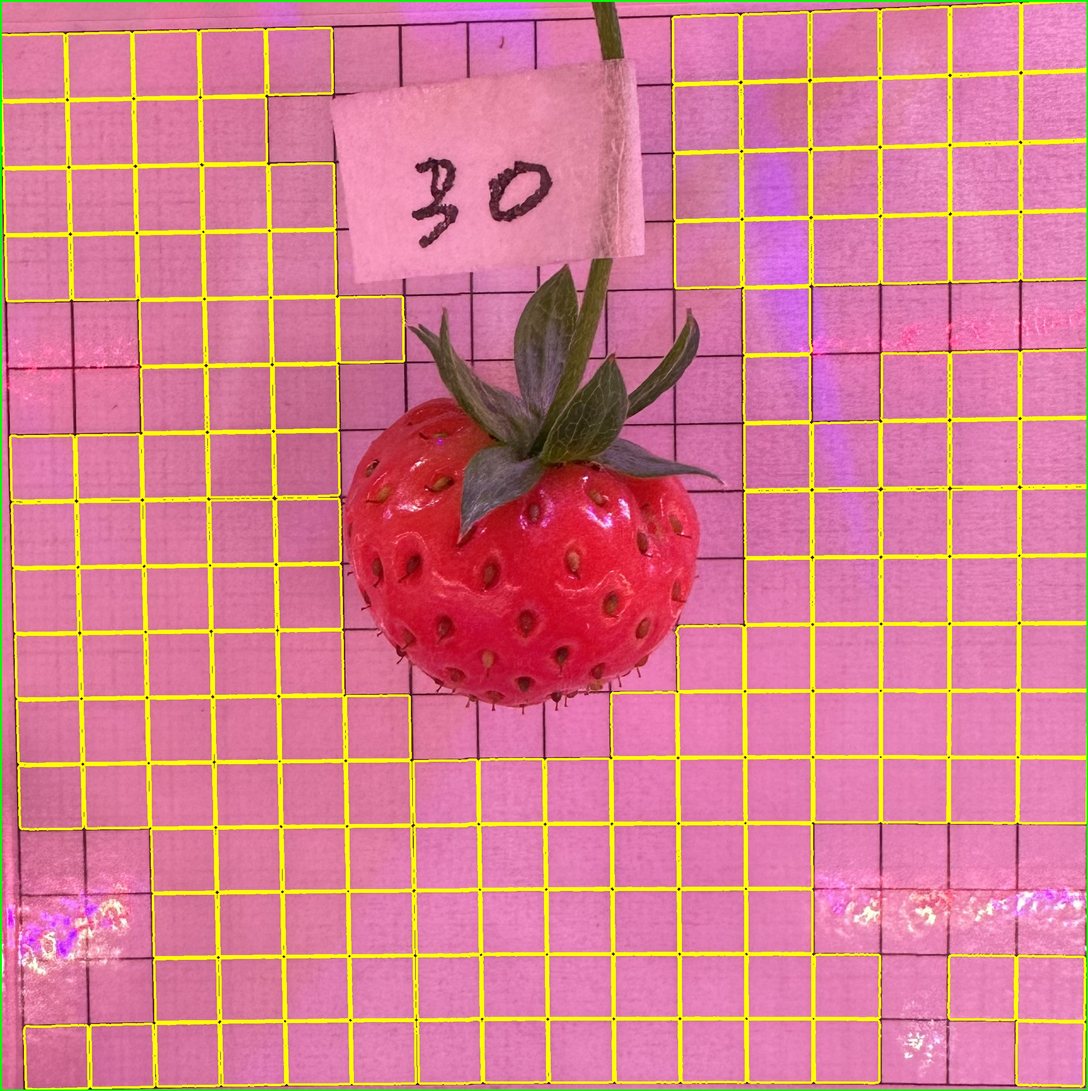
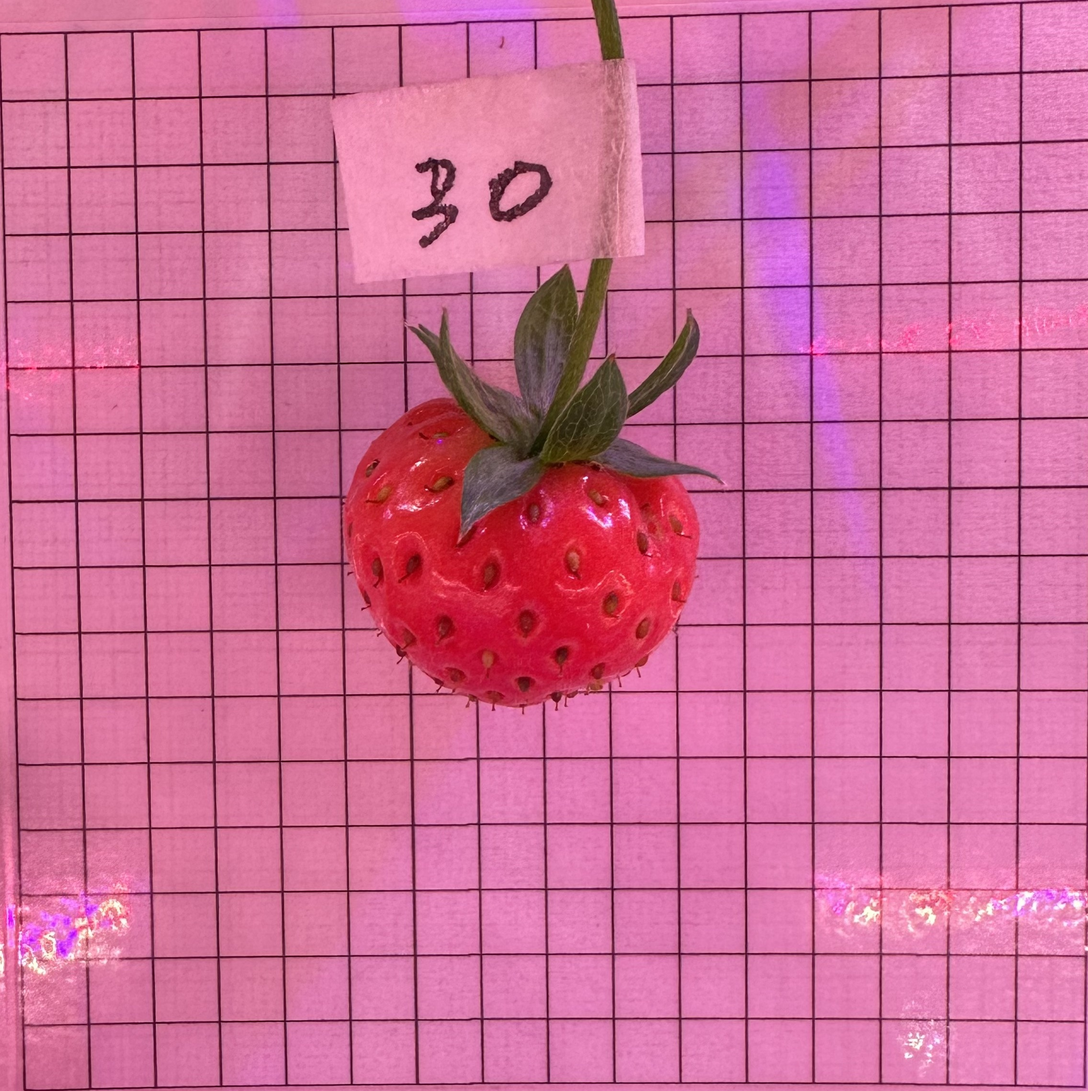
removed liens

Changed region(s): [[0.0, 0.0, 1.0, 1.0]]

diff --git a/crop.py b/crop.py
@@ -29,7 +29,7 @@ for cnt in contours:
             x, y, w, h = cv2.boundingRect(cnt)
             ratio = float(w) / h
             if ratio >= 0.8 and ratio <= 1.2:
-                img = cv2.drawContours(img, [cnt], -1, (0, 255, 255), 3)
+                # img = cv2.drawContours(img, [cnt], -1, (0, 255, 255), 3)
                 allx.append(x)
                 ally.append(y)
                 widths.append(w)
@@ -46,7 +46,7 @@ bottomright = (
     max(allx) + int(averageWidth),
     max(ally) + int(averageHeight),
 )
-cv2.rectangle(img, topleft, bottomright, (0, 255, 0), 5)
+# cv2.rectangle(img, topleft, bottomright, (0, 255, 0), 5)
 
 crop_img = img[topleft[1] : bottomright[1], topleft[0] : bottomright[0]]
 
